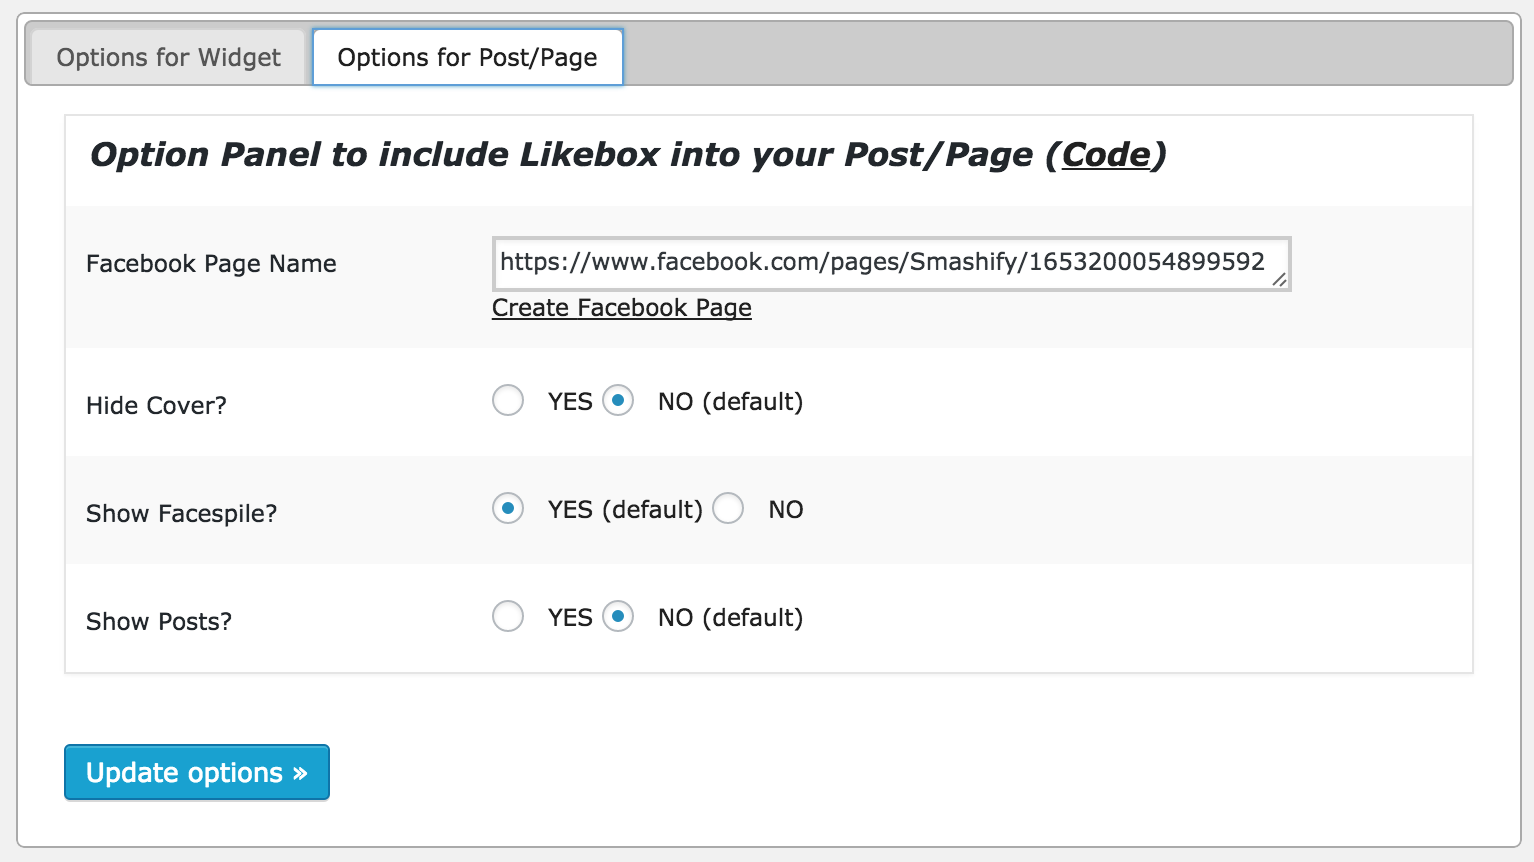
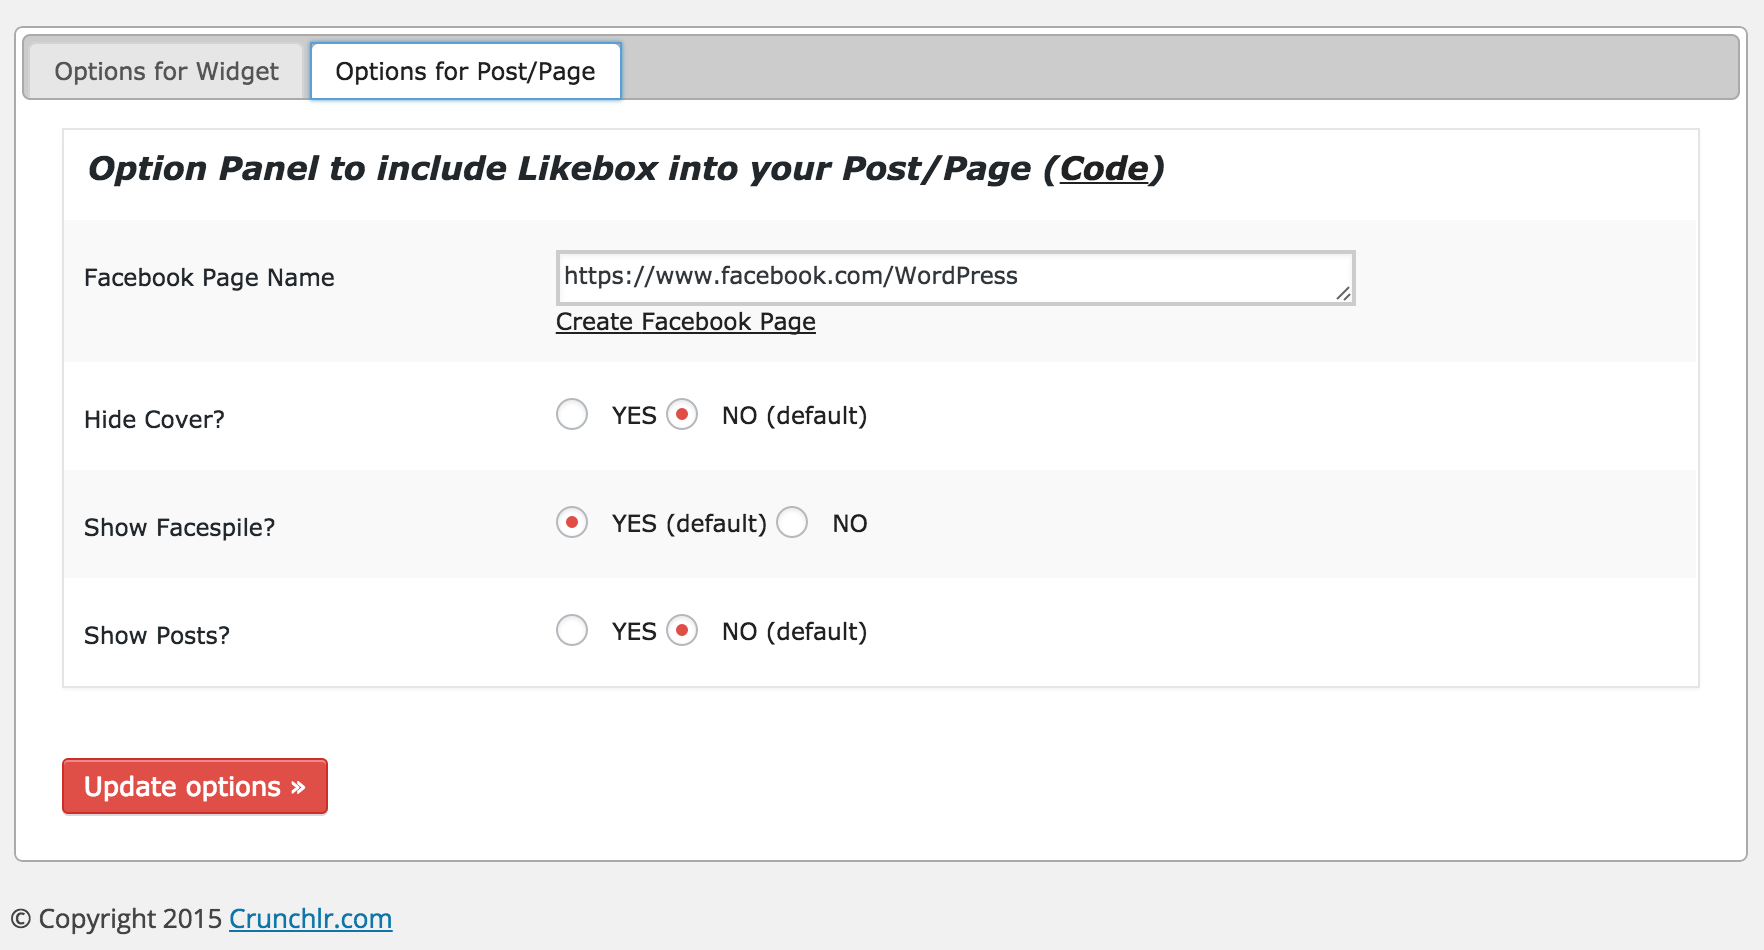
version 1.3 release with minor fix
git-svn-id: https://plugins.svn.wordpress.org/facebook-page-likebox/trunk@1170336 b8457f37-d9ea-0310-8a92-e5e31aec5664

diff --git a/facebook-page-likebox.php b/facebook-page-likebox.php
@@ -1,15 +1,15 @@
 <?php
 /*
 Plugin Name: Facebook Page Plugin (Likebox)
-Plugin URI: http://smashify.co/facebook-page-plugin-likebox-for-wordpress/
+Plugin URI: http://crunchlr.com/facebook-page-plugin-likebox-for-wordpress/
 Description: THE Simplest way to bring Facebook Page Plugin to WordPress with lot more Options
-Version: 1.2
-Author: Smashify
-Author URI: http://smashify.co
+Version: 1.3
+Author: Crunchlr
+Author URI: http://crunchlr.com
 */
 
 /*
-    Copyright (C) 2015 Smashify.co
+    Copyright (C) 2015 Crunchlr.com
 
     This program is free software; you can redistribute it and/or modify
     it under the terms of the GNU General Public License as published by
@@ -155,7 +155,7 @@ function show_crunchlr_facebook_page_plugin_likebox_widget($args)
     if ($sponser == 1) {
         $sponserlink_profile = "";
     } else {
-        $sponserlink_profile = '<div align="left">- <a href="http://smashify.co/facebook-page-plugin-likebox-for-wordpress/" title="Facebook Page Plugin by Smashify.co" target="_blank"> <font size="1">' . 'Facebook Page Plugin by Smashify' . '</font></a></div>';
+        $sponserlink_profile = '<div align="left">- <a href="http://crunchlr.com/facebook-page-plugin-likebox-for-wordpress/" title="Facebook Page Plugin by Crunchlr.com" target="_blank"> <font size="1">' . 'Facebook Page Plugin by Crunchlr' . '</font></a></div>';
     }
 
 

diff --git a/includes/setting-page/crunchlr-right-panel2.php b/includes/setting-page/crunchlr-right-panel2.php
@@ -1,6 +1,6 @@
 <?php
 /**
- * @author Smashify.co
+ * @author Crunchlr.com
  * Plugin: Facebook Page Plugin
  */
 ?>
@@ -12,9 +12,9 @@
 
         <div class="inside">
             <ul>
-               <li><a href="http://smashify.co/facebook-page-plugin-likebox-for-wordpress/" target="_blank">Feedback</a></li>
-               <li><a href="http://twitter.com/SmashifyCo" target="_blank">Twitter</a></li>
-               <li><a href="https://www.facebook.com/pages/Smashify/1653200054899592" target="_blank">Facebook</a></li>
+               <li><a href="http://crunchlr.com/facebook-page-plugin-likebox-for-wordpress/" target="_blank">Feedback</a></li>
+               <li><a href="http://twitter.com/Crunchlr" target="_blank">Twitter</a></li>
+               <li><a href="https://www.facebook.com/pages/Crunchlr/1653200054899592" target="_blank">Facebook</a></li>
                </li>
             </ul>
         </div>

diff --git a/includes/settings-page.php b/includes/settings-page.php
@@ -1,6 +1,6 @@
 <?php
 /**
- * @author Smashify.co
+ * @author Crunchlr.com
  * Plugin: Facebook Page Plugin
  */
 ?>
@@ -12,7 +12,7 @@
 
             <?php wp_nonce_field('fmz-update-setting','fmz-update-setting'); ?>
 
-            <u><h2>Facebook Page Plugin by Smashify.co</h2></u>
+            <u><h2>Facebook Page Plugin by Crunchlr.com</h2></u>
 
             <div id="poststuff" class="metabox-holder has-right-sidebar">
 

diff --git a/includes/setting-page/crunchlr-footer.php b/includes/setting-page/crunchlr-footer.php
@@ -1,6 +1,6 @@
 <?php
 /**
- * @author Smashify.co
+ * @author Crunchlr.com
  * Plugin: Facebook Page Plugin
  */
 ?>
@@ -10,6 +10,6 @@
 </div>
 <div class="clear">
     <p>
-        <br/>&copy; Copyright <?php echo date("Y"); ?> <a href="http://smashify.co" target="_blank">Smashify.co</a>
+        <br/>&copy; Copyright <?php echo date("Y"); ?> <a href="http://crunchlr.com" target="_blank">Crunchlr.com</a>
     </p>
 </div>		

diff --git a/includes/setting-page/crunchlr-left-panel1.php b/includes/setting-page/crunchlr-left-panel1.php
@@ -1,11 +1,11 @@
 <?php
 /**
- * @author Smashify.co
+ * @author Crunchlr.com
  * Plugin: Facebook Page Plugin
  */
 ?>
 <div class="postbox">
-	<div class="smashify">
+	<div class="crunchlr">
 		<h3>Option panel for Widget/Sidebar Area</h3>
 
 		<div>

diff --git a/includes/setting-page/crunchlr-left-column.php b/includes/setting-page/crunchlr-left-column.php
@@ -1,6 +1,6 @@
 <?php
 /**
- * @author Smashify.co
+ * @author Crunchlr.com
  * Plugin: Facebook Page Plugin
  */
 ?>

diff --git a/includes/setting-page/crunchlr-left-panel2.php b/includes/setting-page/crunchlr-left-panel2.php
@@ -1,6 +1,6 @@
 <?php
 /**
- * @author Smashify.co
+ * @author Crunchlr.com
  * Plugin: Facebook Page Plugin
  */
 ?>

diff --git a/includes/setting-page/crunchlr-right-column.php b/includes/setting-page/crunchlr-right-column.php
@@ -1,6 +1,6 @@
 <?php
 /**
- * @author Smashify.co
+ * @author Crunchlr.com
  * Plugin: Facebook Page Plugin
  */
 ?>

diff --git a/includes/setting-page/crunchlr-right-panel1.php b/includes/setting-page/crunchlr-right-panel1.php
@@ -1,6 +1,6 @@
 <?php
 /**
- * @author Smashify.co
+ * @author Crunchlr.com
  * Plugin: Facebook Page Plugin
  */
 ?>
